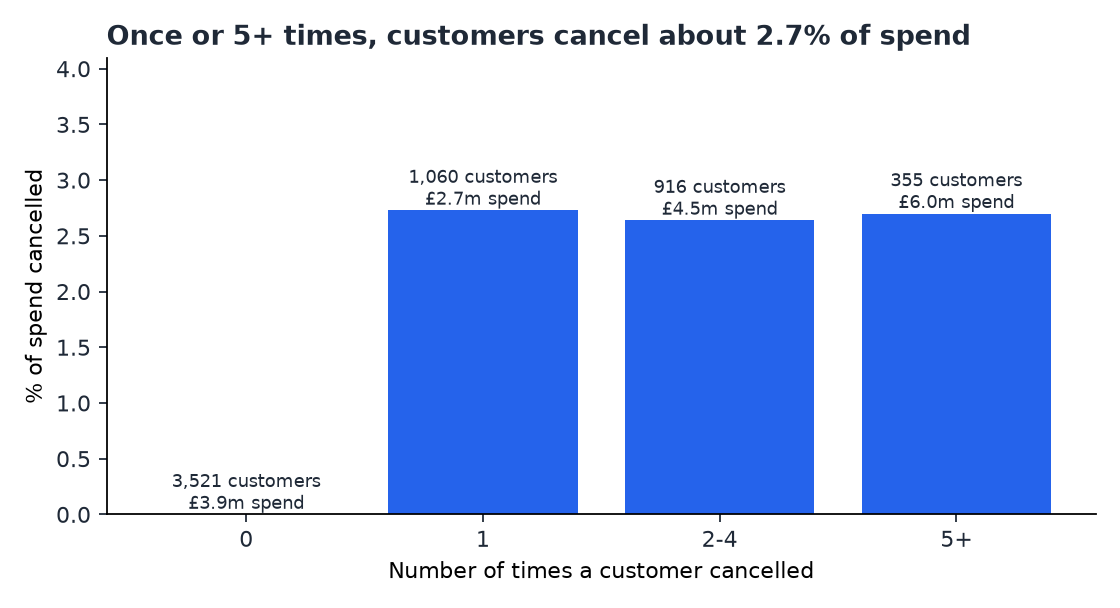
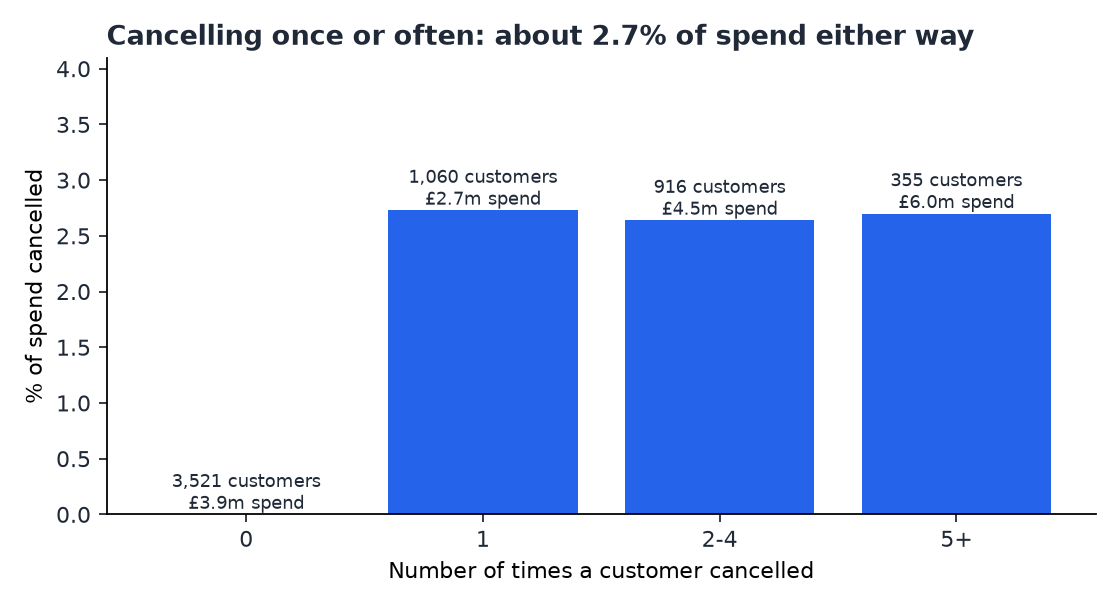
Plainer wording across README, landing page, charts and dashboard

Changed region(s): [[0.0938, 0.0312, 0.875, 0.0938]]

diff --git a/reports/dashboard.html b/reports/dashboard.html
@@ -7,9 +7,9 @@ h1{font-size:22px;margin:0 0 4px}p.sub{margin:0 0 16px;color:#6b7280}
 .note{font-size:12px;color:#6b7280}</style></head><body>
 <h1>Retail cancellation leakage</h1>
 <p class="sub">Real sales from one UK online gift retailer (UCI Online Retail II), Dec 2009 to Dec 2011. Products only; the README lists the cleaning rules.</p>
-<div class="cards"><div class="card"><b>£19.7m</b><span>Product sales, Dec 2009 to Dec 2011</span></div><div class="card"><b>3.65%</b><span>Overall cancellation rate (by value)</span></div><div class="card"><b>50%</b><span>Of the cancelled value is orders reversed within 24 hours</span></div><div class="card"><b>1.88%</b><span>Cancellation rate once reversals are left out</span></div></div>
+<div class="cards"><div class="card"><b>£19.7m</b><span>Product sales, Dec 2009 to Dec 2011</span></div><div class="card"><b>3.65%</b><span>Overall cancellation rate (by value)</span></div><div class="card"><b>50%</b><span>Of cancelled sales (by value) were orders reversed within 24 hours</span></div><div class="card"><b>1.88%</b><span>Cancellation rate once reversals are left out</span></div></div>
 <div style="height:820px; width:100%;">                        <script>window.PlotlyConfig = {MathJaxConfig: 'local'};</script>
-        <script charset="utf-8" src="https://cdn.plot.ly/plotly-4.1.1.min.js" integrity="sha256-O24V1F27f8pb0glCkelh3cVHLNiHAJ5gCaVtq2aNch8=" crossorigin="anonymous"></script>                <div id="7b3cbc96-f692-4897-905b-ffdba1a85541" class="plotly-graph-div" style="height:100%; width:100%;"></div>            <script>                window.PLOTLYENV=window.PLOTLYENV || {};                                if (document.getElementById("7b3cbc96-f692-4897-905b-ffdba1a85541")) {                    Plotly.newPlot(                        "7b3cbc96-f692-4897-905b-ffdba1a85541",                        [{"line":{"color":"#9ca3af","width":2},"name":"All cancellations","x":["2009-12","2010-01","2010-02","2010-03","2010-04","2010-05","2010-06","2010-07","2010-08","2010-09","2010-10","2010-11","2010-12","2011-01","2011-02","2011-03","2011-04","2011-05","2011-06","2011-07","2011-08","2011-09","2011-10","2011-11","2011-12"],"y":{"dtype":"f8","bdata":"hetRuB6FA0CF61G4HoXzP6RwPQrXowJAKVyPwvUo9D+kcD0K16P4Px+F61G4HhdAKVyPwvUoDkCamZmZmZkFQHE9CtejcP0\u002fhetRuB6FCUCkcD0K16MCQJqZmZmZmQNAFK5H4XoUAkA9CtejcD0rQGZmZmZmZvo\u002fpHA9Ctej+D\u002fNzMzMzMwZQFyPwvUoXPM\u002fw\u002fUoXI\u002fC\u002fT+PwvUoXI\u002f6P0jhehSuRwlAZmZmZmZm+j\u002fXo3A9CtcPQIXrUbgehfs\u002fCtejcD1KPEA="},"type":"scatter","xaxis":"x","yaxis":"y"},{"line":{"color":"#2563eb","width":3},"name":"Without reversals","x":["2009-12","2010-01","2010-02","2010-03","2010-04","2010-05","2010-06","2010-07","2010-08","2010-09","2010-10","2010-11","2010-12","2011-01","2011-02","2011-03","2011-04","2011-05","2011-06","2011-07","2011-08","2011-09","2011-10","2011-11","2011-12"],"y":{"dtype":"f8","bdata":"uB6F61G4AECPwvUoXI\u002fyP1yPwvUoXAFAmpmZmZmZ8T8AAAAAAAD0P+F6FK5H4QxAmpmZmZmZ\u002fT+kcD0K16P8P1yPwvUoXPc\u002fKVyPwvUoBEDD9Shcj8L5P7gehetRuABApHA9Ctej\u002fD89CtejcD0AQMP1KFyPwvk\u002fZmZmZmZm8j+PwvUoXI8YQOF6FK5H4fI\u002fSOF6FK5H+T8zMzMzMzP3P2ZmZmZmZgRAhetRuB6F8z9mZmZmZmYGQM3MzMzMzPA\u002fZmZmZmZm8j8="},"type":"scatter","xaxis":"x","yaxis":"y"},{"marker":{"color":["#dc2626","#2563eb","#9ca3af"]},"showlegend":false,"x":["Reversed within 24 hours","Other cancellations","No customer ID"],"y":[356000.0,357010.0,6647.0],"type":"bar","xaxis":"x2","yaxis":"y2"},{"customdata":{"dtype":"f8","bdata":"ZmZmZmZmIEAAAAAAAAAhQDMzMzMzMzxAZmZmZmZmIUAAAAAAAIAwQGZmZmZmZiRAMzMzMzNzQUBmZmZmZuY5QJqZmZmZmQVAmpmZmZmZEUA="},"hovertemplate":"%{y}\u003cbr\u003e\u00a3%{x:,.0f} (%{customdata}% of the product's sales)\u003cextra\u003e\u003c\u002fextra\u003e","marker":{"color":"#2563eb"},"orientation":"h","showlegend":false,"x":{"dtype":"f8","bdata":"AAAAAACKrEAAAAAAAFatQAAAAAAAZq5AAAAAAAAqr0AAAAAAALOwQAAAAAAAR7JAAAAAAACSuEAAAAAAALG5QAAAAAAAaLtAAAAAAAApzEA="},"y":["Coloured Glass Star T-Light Ho","Gin + Tonic Diet Metal Sign","Pink Cherry Lights","Baking Set 9 Piece Retrospot ","Tea Time Party Bunting","Doormat Fairy Cake","White Cherry Lights","Fairy Cake Flannel Assorted Co","White Hanging Heart T-Light Ho","Regency Cakestand 3 Tier"],"type":"bar","xaxis":"x3","yaxis":"y3"},{"error_y":{"array":{"dtype":"f8","bdata":"0MzMzMzM3D9SuB6F61EiQJqZmZmZWTVAcD0K16Nw5T8="},"arrayminus":{"dtype":"f8","bdata":"xPUoXI\u002fC1T+kcD0K16MRQArXo3A9CidAzszMzMzM5D8="},"symmetric":false,"type":"data"},"marker":{"color":"#2563eb"},"showlegend":false,"x":["United Kingdom","France","Spain","Germany"],"y":{"dtype":"f8","bdata":"AAAAAAAAAEBSuB6F61EVQHsUrkfh+idA7FG4HoXrAUA="},"type":"bar","xaxis":"x4","yaxis":"y4"},{"marker":{"color":"#dc2626","size":10},"mode":"markers","name":"Without its top cancelling customer","x":["United Kingdom","France","Spain","Germany"],"y":{"dtype":"f8","bdata":"cT0K16Nw\u002fT+uR+F6FK7zP6RwPQrXo+g\u002frkfhehSu\u002fz8="},"type":"scatter","xaxis":"x4","yaxis":"y4"}],                        {"template":{"data":{"barpolar":[{"marker":{"line":{"color":"white","width":0.5},"pattern":{"fillmode":"overlay","size":10,"solidity":0.2}},"type":"barpolar"}],"bar":[{"error_x":{"color":"rgb(36,36,36)"},"error_y":{"color":"rgb(36,36,36)"},"marker":{"line":{"color":"white","width":0.5},"pattern":{"fillmode":"overlay","size":10,"solidity":0.2}},"type":"bar"}],"carpet":[{"aaxis":{"endlinecolor":"rgb(36,36,36)","gridcolor":"white","linecolor":"white","minorgridcolor":"white","startlinecolor":"rgb(36,36,36)"},"baxis":{"endlinecolor":"rgb(36,36,36)","gridcolor":"white","linecolor":"white","minorgridcolor":"white","startlinecolor":"rgb(36,36,36)"},"type":"carpet"}],"choropleth":[{"colorbar":{"outlinewidth":1,"tickcolor":"rgb(36,36,36)","ticks":"outside"},"type":"choropleth"}],"contourcarpet":[{"colorbar":{"outlinewidth":1,"tickcolor":"rgb(36,36,36)","ticks":"outside"},"type":"contourcarpet"}],"contour":[{"colorbar":{"outlinewidth":1,"tickcolor":"rgb(36,36,36)","ticks":"outside"},"colorscale":[[0.0,"#440154"],[0.1111111111111111,"#482878"],[0.2222222222222222,"#3e4989"],[0.3333333333333333,"#31688e"],[0.4444444444444444,"#26828e"],[0.5555555555555556,"#1f9e89"],[0.6666666666666666,"#35b779"],[0.7777777777777778,"#6ece58"],[0.8888888888888888,"#b5de2b"],[1.0,"#fde725"]],"type":"contour"}],"heatmap":[{"colorbar":{"outlinewidth":1,"tickcolor":"rgb(36,36,36)","ticks":"outside"},"colorscale":[[0.0,"#440154"],[0.1111111111111111,"#482878"],[0.2222222222222222,"#3e4989"],[0.3333333333333333,"#31688e"],[0.4444444444444444,"#26828e"],[0.5555555555555556,"#1f9e89"],[0.6666666666666666,"#35b779"],[0.7777777777777778,"#6ece58"],[0.8888888888888888,"#b5de2b"],[1.0,"#fde725"]],"type":"heatmap"}],"histogram2dcontour":[{"colorbar":{"outlinewidth":1,"tickcolor":"rgb(36,36,36)","ticks":"outside"},"colorscale":[[0.0,"#440154"],[0.1111111111111111,"#482878"],[0.2222222222222222,"#3e4989"],[0.3333333333333333,"#31688e"],[0.4444444444444444,"#26828e"],[0.5555555555555556,"#1f9e89"],[0.6666666666666666,"#35b779"],[0.7777777777777778,"#6ece58"],[0.8888888888888888,"#b5de2b"],[1.0,"#fde725"]],"type":"histogram2dcontour"}],"histogram2d":[{"colorbar":{"outlinewidth":1,"tickcolor":"rgb(36,36,36)","ticks":"outside"},"colorscale":[[0.0,"#440154"],[0.1111111111111111,"#482878"],[0.2222222222222222,"#3e4989"],[0.3333333333333333,"#31688e"],[0.4444444444444444,"#26828e"],[0.5555555555555556,"#1f9e89"],[0.6666666666666666,"#35b779"],[0.7777777777777778,"#6ece58"],[0.8888888888888888,"#b5de2b"],[1.0,"#fde725"]],"type":"histogram2d"}],"histogram":[{"marker":{"line":{"color":"white","width":0.6}},"type":"histogram"}],"mesh3d":[{"colorbar":{"outlinewidth":1,"tickcolor":"rgb(36,36,36)","ticks":"outside"},"type":"mesh3d"}],"parcoords":[{"line":{"colorbar":{"outlinewidth":1,"tickcolor":"rgb(36,36,36)","ticks":"outside"}},"type":"parcoords"}],"pie":[{"automargin":true,"type":"pie"}],"scatter3d":[{"line":{"colorbar":{"outlinewidth":1,"tickcolor":"rgb(36,36,36)","ticks":"outside"}},"marker":{"colorbar":{"outlinewidth":1,"tickcolor":"rgb(36,36,36)","ticks":"outside"}},"type":"scatter3d"}],"scattercarpet":[{"marker":{"colorbar":{"outlinewidth":1,"tickcolor":"rgb(36,36,36)","ticks":"outside"}},"type":"scattercarpet"}],"scattergeo":[{"marker":{"colorbar":{"outlinewidth":1,"tickcolor":"rgb(36,36,36)","ticks":"outside"}},"type":"scattergeo"}],"scattergl":[{"marker":{"colorbar":{"outlinewidth":1,"tickcolor":"rgb(36,36,36)","ticks":"outside"}},"type":"scattergl"}],"scattermap":[{"marker":{"colorbar":{"outlinewidth":1,"tickcolor":"rgb(36,36,36)","ticks":"outside"}},"type":"scattermap"}],"scatterpolargl":[{"marker":{"colorbar":{"outlinewidth":1,"tickcolor":"rgb(36,36,36)","ticks":"outside"}},"type":"scatterpolargl"}],"scatterpolar":[{"marker":{"colorbar":{"outlinewidth":1,"tickcolor":"rgb(36,36,36)","ticks":"outside"}},"type":"scatterpolar"}],"scatter":[{"fillpattern":{"fillmode":"overlay","size":10,"solidity":0.2},"type":"scatter"}],"scatterternary":[{"marker":{"colorbar":{"outlinewidth":1,"tickcolor":"rgb(36,36,36)","ticks":"outside"}},"type":"scatterternary"}],"surface":[{"colorbar":{"outlinewidth":1,"tickcolor":"rgb(36,36,36)","ticks":"outside"},"colorscale":[[0.0,"#440154"],[0.1111111111111111,"#482878"],[0.2222222222222222,"#3e4989"],[0.3333333333333333,"#31688e"],[0.4444444444444444,"#26828e"],[0.5555555555555556,"#1f9e89"],[0.6666666666666666,"#35b779"],[0.7777777777777778,"#6ece58"],[0.8888888888888888,"#b5de2b"],[1.0,"#fde725"]],"type":"surface"}],"table":[{"cells":{"fill":{"color":"rgb(237,237,237)"},"line":{"color":"white"}},"header":{"fill":{"color":"rgb(217,217,217)"},"line":{"color":"white"}},"type":"table"}]},"layout":{"annotationdefaults":{"arrowhead":0,"arrowwidth":1},"autotypenumbers":"strict","coloraxis":{"colorbar":{"outlinewidth":1,"tickcolor":"rgb(36,36,36)","ticks":"outside"}},"colorscale":{"diverging":[[0.0,"rgb(103,0,31)"],[0.1,"rgb(178,24,43)"],[0.2,"rgb(214,96,77)"],[0.3,"rgb(244,165,130)"],[0.4,"rgb(253,219,199)"],[0.5,"rgb(247,247,247)"],[0.6,"rgb(209,229,240)"],[0.7,"rgb(146,197,222)"],[0.8,"rgb(67,147,195)"],[0.9,"rgb(33,102,172)"],[1.0,"rgb(5,48,97)"]],"sequential":[[0.0,"#440154"],[0.1111111111111111,"#482878"],[0.2222222222222222,"#3e4989"],[0.3333333333333333,"#31688e"],[0.4444444444444444,"#26828e"],[0.5555555555555556,"#1f9e89"],[0.6666666666666666,"#35b779"],[0.7777777777777778,"#6ece58"],[0.8888888888888888,"#b5de2b"],[1.0,"#fde725"]],"sequentialminus":[[0.0,"#440154"],[0.1111111111111111,"#482878"],[0.2222222222222222,"#3e4989"],[0.3333333333333333,"#31688e"],[0.4444444444444444,"#26828e"],[0.5555555555555556,"#1f9e89"],[0.6666666666666666,"#35b779"],[0.7777777777777778,"#6ece58"],[0.8888888888888888,"#b5de2b"],[1.0,"#fde725"]]},"colorway":["#1F77B4","#FF7F0E","#2CA02C","#D62728","#9467BD","#8C564B","#E377C2","#7F7F7F","#BCBD22","#17BECF"],"font":{"color":"rgb(36,36,36)"},"geo":{"bgcolor":"white","lakecolor":"white","landcolor":"white","showlakes":true,"showland":true,"subunitcolor":"white"},"hoverlabel":{"align":"left"},"hovermode":"closest","paper_bgcolor":"white","plot_bgcolor":"white","polar":{"angularaxis":{"gridcolor":"rgb(232,232,232)","linecolor":"rgb(36,36,36)","showgrid":false,"showline":true,"ticks":"outside"},"bgcolor":"white","radialaxis":{"gridcolor":"rgb(232,232,232)","linecolor":"rgb(36,36,36)","showgrid":false,"showline":true,"ticks":"outside"}},"scene":{"xaxis":{"backgroundcolor":"white","gridcolor":"rgb(232,232,232)","gridwidth":2,"linecolor":"rgb(36,36,36)","showbackground":true,"showgrid":false,"showline":true,"ticks":"outside","zeroline":false,"zerolinecolor":"rgb(36,36,36)"},"yaxis":{"backgroundcolor":"white","gridcolor":"rgb(232,232,232)","gridwidth":2,"linecolor":"rgb(36,36,36)","showbackground":true,"showgrid":false,"showline":true,"ticks":"outside","zeroline":false,"zerolinecolor":"rgb(36,36,36)"},"zaxis":{"backgroundcolor":"white","gridcolor":"rgb(232,232,232)","gridwidth":2,"linecolor":"rgb(36,36,36)","showbackground":true,"showgrid":false,"showline":true,"ticks":"outside","zeroline":false,"zerolinecolor":"rgb(36,36,36)"}},"shapedefaults":{"fillcolor":"black","line":{"width":0},"opacity":0.3},"ternary":{"aaxis":{"gridcolor":"rgb(232,232,232)","linecolor":"rgb(36,36,36)","showgrid":false,"showline":true,"ticks":"outside"},"baxis":{"gridcolor":"rgb(232,232,232)","linecolor":"rgb(36,36,36)","showgrid":false,"showline":true,"ticks":"outside"},"bgcolor":"white","caxis":{"gridcolor":"rgb(232,232,232)","linecolor":"rgb(36,36,36)","showgrid":false,"showline":true,"ticks":"outside"}},"title":{"x":0.05},"xaxis":{"automargin":true,"gridcolor":"rgb(232,232,232)","linecolor":"rgb(36,36,36)","showgrid":false,"showline":true,"ticks":"outside","title":{"standoff":15},"zeroline":false,"zerolinecolor":"rgb(36,36,36)"},"yaxis":{"automargin":true,"gridcolor":"rgb(232,232,232)","linecolor":"rgb(36,36,36)","showgrid":false,"showline":true,"ticks":"outside","title":{"standoff":15},"zeroline":false,"zerolinecolor":"rgb(36,36,36)"}}},"xaxis":{"anchor":"y","domain":[0.0,0.44]},"yaxis":{"anchor":"x","domain":[0.61,1.0],"title":{"text":"% of sales"}},"xaxis2":{"anchor":"y2","domain":[0.56,1.0]},"yaxis2":{"anchor":"x2","domain":[0.61,1.0]},"xaxis3":{"anchor":"y3","domain":[0.0,0.44]},"yaxis3":{"anchor":"x3","domain":[0.0,0.39]},"xaxis4":{"anchor":"y4","domain":[0.56,1.0]},"yaxis4":{"anchor":"x4","domain":[0.0,0.39],"title":{"text":"% of spend (customers with an ID)"}},"annotations":[{"font":{"size":16},"showarrow":false,"text":"Monthly cancellation rate, with and without reversals","x":0.22,"xanchor":"center","xref":"paper","y":1.0,"yanchor":"bottom","yref":"paper"},{"font":{"size":16},"showarrow":false,"text":"Where the cancelled value comes from (\u00a3)","x":0.78,"xanchor":"center","xref":"paper","y":1.0,"yanchor":"bottom","yref":"paper"},{"font":{"size":16},"showarrow":false,"text":"Top 10 products by cancelled value, excluding reversals (\u00a3)","x":0.22,"xanchor":"center","xref":"paper","y":0.39,"yanchor":"bottom","yref":"paper"},{"font":{"size":16},"showarrow":false,"text":"Rate by country, with 95% confidence ranges","x":0.78,"xanchor":"center","xref":"paper","y":0.39,"yanchor":"bottom","yref":"paper"}],"margin":{"t":70,"l":60,"r":30,"b":40},"legend":{"orientation":"h","y":-0.08},"font":{"family":"Segoe UI, Arial","size":12},"height":820},                        {"responsive": true}                    )                };            </script>        </div>
+        <script charset="utf-8" src="https://cdn.plot.ly/plotly-4.1.1.min.js" integrity="sha256-O24V1F27f8pb0glCkelh3cVHLNiHAJ5gCaVtq2aNch8=" crossorigin="anonymous"></script>                <div id="22b1dd9c-5b26-48c5-84ff-f27063e41c70" class="plotly-graph-div" style="height:100%; width:100%;"></div>            <script>                window.PLOTLYENV=window.PLOTLYENV || {};                                if (document.getElementById("22b1dd9c-5b26-48c5-84ff-f27063e41c70")) {                    Plotly.newPlot(                        "22b1dd9c-5b26-48c5-84ff-f27063e41c70",                        [{"line":{"color":"#9ca3af","width":2},"name":"All cancellations","x":["2009-12","2010-01","2010-02","2010-03","2010-04","2010-05","2010-06","2010-07","2010-08","2010-09","2010-10","2010-11","2010-12","2011-01","2011-02","2011-03","2011-04","2011-05","2011-06","2011-07","2011-08","2011-09","2011-10","2011-11","2011-12"],"y":{"dtype":"f8","bdata":"hetRuB6FA0CF61G4HoXzP6RwPQrXowJAKVyPwvUo9D+kcD0K16P4Px+F61G4HhdAKVyPwvUoDkCamZmZmZkFQHE9CtejcP0\u002fhetRuB6FCUCkcD0K16MCQJqZmZmZmQNAFK5H4XoUAkA9CtejcD0rQGZmZmZmZvo\u002fpHA9Ctej+D\u002fNzMzMzMwZQFyPwvUoXPM\u002fw\u002fUoXI\u002fC\u002fT+PwvUoXI\u002f6P0jhehSuRwlAZmZmZmZm+j\u002fXo3A9CtcPQIXrUbgehfs\u002fCtejcD1KPEA="},"type":"scatter","xaxis":"x","yaxis":"y"},{"line":{"color":"#2563eb","width":3},"name":"Without reversals","x":["2009-12","2010-01","2010-02","2010-03","2010-04","2010-05","2010-06","2010-07","2010-08","2010-09","2010-10","2010-11","2010-12","2011-01","2011-02","2011-03","2011-04","2011-05","2011-06","2011-07","2011-08","2011-09","2011-10","2011-11","2011-12"],"y":{"dtype":"f8","bdata":"uB6F61G4AECPwvUoXI\u002fyP1yPwvUoXAFAmpmZmZmZ8T8AAAAAAAD0P+F6FK5H4QxAmpmZmZmZ\u002fT+kcD0K16P8P1yPwvUoXPc\u002fKVyPwvUoBEDD9Shcj8L5P7gehetRuABApHA9Ctej\u002fD89CtejcD0AQMP1KFyPwvk\u002fZmZmZmZm8j+PwvUoXI8YQOF6FK5H4fI\u002fSOF6FK5H+T8zMzMzMzP3P2ZmZmZmZgRAhetRuB6F8z9mZmZmZmYGQM3MzMzMzPA\u002fZmZmZmZm8j8="},"type":"scatter","xaxis":"x","yaxis":"y"},{"marker":{"color":["#dc2626","#2563eb","#9ca3af"]},"showlegend":false,"x":["Reversed within 24 hours","Other cancellations","No customer ID"],"y":[356000.0,357010.0,6647.0],"type":"bar","xaxis":"x2","yaxis":"y2"},{"customdata":{"dtype":"f8","bdata":"ZmZmZmZmIEAAAAAAAAAhQDMzMzMzMzxAZmZmZmZmIUAAAAAAAIAwQGZmZmZmZiRAMzMzMzNzQUBmZmZmZuY5QJqZmZmZmQVAmpmZmZmZEUA="},"hovertemplate":"%{y}\u003cbr\u003e\u00a3%{x:,.0f} (%{customdata}% of the product's sales)\u003cextra\u003e\u003c\u002fextra\u003e","marker":{"color":"#2563eb"},"orientation":"h","showlegend":false,"x":{"dtype":"f8","bdata":"AAAAAACKrEAAAAAAAFatQAAAAAAAZq5AAAAAAAAqr0AAAAAAALOwQAAAAAAAR7JAAAAAAACSuEAAAAAAALG5QAAAAAAAaLtAAAAAAAApzEA="},"y":["Coloured Glass Star T-Light Ho","Gin + Tonic Diet Metal Sign","Pink Cherry Lights","Baking Set 9 Piece Retrospot ","Tea Time Party Bunting","Doormat Fairy Cake","White Cherry Lights","Fairy Cake Flannel Assorted Co","White Hanging Heart T-Light Ho","Regency Cakestand 3 Tier"],"type":"bar","xaxis":"x3","yaxis":"y3"},{"error_y":{"array":{"dtype":"f8","bdata":"0MzMzMzM3D9SuB6F61EiQJqZmZmZWTVAcD0K16Nw5T8="},"arrayminus":{"dtype":"f8","bdata":"xPUoXI\u002fC1T+kcD0K16MRQArXo3A9CidAzszMzMzM5D8="},"symmetric":false,"type":"data"},"marker":{"color":"#2563eb"},"showlegend":false,"x":["United Kingdom","France","Spain","Germany"],"y":{"dtype":"f8","bdata":"AAAAAAAAAEBSuB6F61EVQHsUrkfh+idA7FG4HoXrAUA="},"type":"bar","xaxis":"x4","yaxis":"y4"},{"marker":{"color":"#dc2626","size":10},"mode":"markers","name":"Without its top cancelling customer","x":["United Kingdom","France","Spain","Germany"],"y":{"dtype":"f8","bdata":"cT0K16Nw\u002fT+uR+F6FK7zP6RwPQrXo+g\u002frkfhehSu\u002fz8="},"type":"scatter","xaxis":"x4","yaxis":"y4"}],                        {"template":{"data":{"barpolar":[{"marker":{"line":{"color":"white","width":0.5},"pattern":{"fillmode":"overlay","size":10,"solidity":0.2}},"type":"barpolar"}],"bar":[{"error_x":{"color":"rgb(36,36,36)"},"error_y":{"color":"rgb(36,36,36)"},"marker":{"line":{"color":"white","width":0.5},"pattern":{"fillmode":"overlay","size":10,"solidity":0.2}},"type":"bar"}],"carpet":[{"aaxis":{"endlinecolor":"rgb(36,36,36)","gridcolor":"white","linecolor":"white","minorgridcolor":"white","startlinecolor":"rgb(36,36,36)"},"baxis":{"endlinecolor":"rgb(36,36,36)","gridcolor":"white","linecolor":"white","minorgridcolor":"white","startlinecolor":"rgb(36,36,36)"},"type":"carpet"}],"choropleth":[{"colorbar":{"outlinewidth":1,"tickcolor":"rgb(36,36,36)","ticks":"outside"},"type":"choropleth"}],"contourcarpet":[{"colorbar":{"outlinewidth":1,"tickcolor":"rgb(36,36,36)","ticks":"outside"},"type":"contourcarpet"}],"contour":[{"colorbar":{"outlinewidth":1,"tickcolor":"rgb(36,36,36)","ticks":"outside"},"colorscale":[[0.0,"#440154"],[0.1111111111111111,"#482878"],[0.2222222222222222,"#3e4989"],[0.3333333333333333,"#31688e"],[0.4444444444444444,"#26828e"],[0.5555555555555556,"#1f9e89"],[0.6666666666666666,"#35b779"],[0.7777777777777778,"#6ece58"],[0.8888888888888888,"#b5de2b"],[1.0,"#fde725"]],"type":"contour"}],"heatmap":[{"colorbar":{"outlinewidth":1,"tickcolor":"rgb(36,36,36)","ticks":"outside"},"colorscale":[[0.0,"#440154"],[0.1111111111111111,"#482878"],[0.2222222222222222,"#3e4989"],[0.3333333333333333,"#31688e"],[0.4444444444444444,"#26828e"],[0.5555555555555556,"#1f9e89"],[0.6666666666666666,"#35b779"],[0.7777777777777778,"#6ece58"],[0.8888888888888888,"#b5de2b"],[1.0,"#fde725"]],"type":"heatmap"}],"histogram2dcontour":[{"colorbar":{"outlinewidth":1,"tickcolor":"rgb(36,36,36)","ticks":"outside"},"colorscale":[[0.0,"#440154"],[0.1111111111111111,"#482878"],[0.2222222222222222,"#3e4989"],[0.3333333333333333,"#31688e"],[0.4444444444444444,"#26828e"],[0.5555555555555556,"#1f9e89"],[0.6666666666666666,"#35b779"],[0.7777777777777778,"#6ece58"],[0.8888888888888888,"#b5de2b"],[1.0,"#fde725"]],"type":"histogram2dcontour"}],"histogram2d":[{"colorbar":{"outlinewidth":1,"tickcolor":"rgb(36,36,36)","ticks":"outside"},"colorscale":[[0.0,"#440154"],[0.1111111111111111,"#482878"],[0.2222222222222222,"#3e4989"],[0.3333333333333333,"#31688e"],[0.4444444444444444,"#26828e"],[0.5555555555555556,"#1f9e89"],[0.6666666666666666,"#35b779"],[0.7777777777777778,"#6ece58"],[0.8888888888888888,"#b5de2b"],[1.0,"#fde725"]],"type":"histogram2d"}],"histogram":[{"marker":{"line":{"color":"white","width":0.6}},"type":"histogram"}],"mesh3d":[{"colorbar":{"outlinewidth":1,"tickcolor":"rgb(36,36,36)","ticks":"outside"},"type":"mesh3d"}],"parcoords":[{"line":{"colorbar":{"outlinewidth":1,"tickcolor":"rgb(36,36,36)","ticks":"outside"}},"type":"parcoords"}],"pie":[{"automargin":true,"type":"pie"}],"scatter3d":[{"line":{"colorbar":{"outlinewidth":1,"tickcolor":"rgb(36,36,36)","ticks":"outside"}},"marker":{"colorbar":{"outlinewidth":1,"tickcolor":"rgb(36,36,36)","ticks":"outside"}},"type":"scatter3d"}],"scattercarpet":[{"marker":{"colorbar":{"outlinewidth":1,"tickcolor":"rgb(36,36,36)","ticks":"outside"}},"type":"scattercarpet"}],"scattergeo":[{"marker":{"colorbar":{"outlinewidth":1,"tickcolor":"rgb(36,36,36)","ticks":"outside"}},"type":"scattergeo"}],"scattergl":[{"marker":{"colorbar":{"outlinewidth":1,"tickcolor":"rgb(36,36,36)","ticks":"outside"}},"type":"scattergl"}],"scattermap":[{"marker":{"colorbar":{"outlinewidth":1,"tickcolor":"rgb(36,36,36)","ticks":"outside"}},"type":"scattermap"}],"scatterpolargl":[{"marker":{"colorbar":{"outlinewidth":1,"tickcolor":"rgb(36,36,36)","ticks":"outside"}},"type":"scatterpolargl"}],"scatterpolar":[{"marker":{"colorbar":{"outlinewidth":1,"tickcolor":"rgb(36,36,36)","ticks":"outside"}},"type":"scatterpolar"}],"scatter":[{"fillpattern":{"fillmode":"overlay","size":10,"solidity":0.2},"type":"scatter"}],"scatterternary":[{"marker":{"colorbar":{"outlinewidth":1,"tickcolor":"rgb(36,36,36)","ticks":"outside"}},"type":"scatterternary"}],"surface":[{"colorbar":{"outlinewidth":1,"tickcolor":"rgb(36,36,36)","ticks":"outside"},"colorscale":[[0.0,"#440154"],[0.1111111111111111,"#482878"],[0.2222222222222222,"#3e4989"],[0.3333333333333333,"#31688e"],[0.4444444444444444,"#26828e"],[0.5555555555555556,"#1f9e89"],[0.6666666666666666,"#35b779"],[0.7777777777777778,"#6ece58"],[0.8888888888888888,"#b5de2b"],[1.0,"#fde725"]],"type":"surface"}],"table":[{"cells":{"fill":{"color":"rgb(237,237,237)"},"line":{"color":"white"}},"header":{"fill":{"color":"rgb(217,217,217)"},"line":{"color":"white"}},"type":"table"}]},"layout":{"annotationdefaults":{"arrowhead":0,"arrowwidth":1},"autotypenumbers":"strict","coloraxis":{"colorbar":{"outlinewidth":1,"tickcolor":"rgb(36,36,36)","ticks":"outside"}},"colorscale":{"diverging":[[0.0,"rgb(103,0,31)"],[0.1,"rgb(178,24,43)"],[0.2,"rgb(214,96,77)"],[0.3,"rgb(244,165,130)"],[0.4,"rgb(253,219,199)"],[0.5,"rgb(247,247,247)"],[0.6,"rgb(209,229,240)"],[0.7,"rgb(146,197,222)"],[0.8,"rgb(67,147,195)"],[0.9,"rgb(33,102,172)"],[1.0,"rgb(5,48,97)"]],"sequential":[[0.0,"#440154"],[0.1111111111111111,"#482878"],[0.2222222222222222,"#3e4989"],[0.3333333333333333,"#31688e"],[0.4444444444444444,"#26828e"],[0.5555555555555556,"#1f9e89"],[0.6666666666666666,"#35b779"],[0.7777777777777778,"#6ece58"],[0.8888888888888888,"#b5de2b"],[1.0,"#fde725"]],"sequentialminus":[[0.0,"#440154"],[0.1111111111111111,"#482878"],[0.2222222222222222,"#3e4989"],[0.3333333333333333,"#31688e"],[0.4444444444444444,"#26828e"],[0.5555555555555556,"#1f9e89"],[0.6666666666666666,"#35b779"],[0.7777777777777778,"#6ece58"],[0.8888888888888888,"#b5de2b"],[1.0,"#fde725"]]},"colorway":["#1F77B4","#FF7F0E","#2CA02C","#D62728","#9467BD","#8C564B","#E377C2","#7F7F7F","#BCBD22","#17BECF"],"font":{"color":"rgb(36,36,36)"},"geo":{"bgcolor":"white","lakecolor":"white","landcolor":"white","showlakes":true,"showland":true,"subunitcolor":"white"},"hoverlabel":{"align":"left"},"hovermode":"closest","paper_bgcolor":"white","plot_bgcolor":"white","polar":{"angularaxis":{"gridcolor":"rgb(232,232,232)","linecolor":"rgb(36,36,36)","showgrid":false,"showline":true,"ticks":"outside"},"bgcolor":"white","radialaxis":{"gridcolor":"rgb(232,232,232)","linecolor":"rgb(36,36,36)","showgrid":false,"showline":true,"ticks":"outside"}},"scene":{"xaxis":{"backgroundcolor":"white","gridcolor":"rgb(232,232,232)","gridwidth":2,"linecolor":"rgb(36,36,36)","showbackground":true,"showgrid":false,"showline":true,"ticks":"outside","zeroline":false,"zerolinecolor":"rgb(36,36,36)"},"yaxis":{"backgroundcolor":"white","gridcolor":"rgb(232,232,232)","gridwidth":2,"linecolor":"rgb(36,36,36)","showbackground":true,"showgrid":false,"showline":true,"ticks":"outside","zeroline":false,"zerolinecolor":"rgb(36,36,36)"},"zaxis":{"backgroundcolor":"white","gridcolor":"rgb(232,232,232)","gridwidth":2,"linecolor":"rgb(36,36,36)","showbackground":true,"showgrid":false,"showline":true,"ticks":"outside","zeroline":false,"zerolinecolor":"rgb(36,36,36)"}},"shapedefaults":{"fillcolor":"black","line":{"width":0},"opacity":0.3},"ternary":{"aaxis":{"gridcolor":"rgb(232,232,232)","linecolor":"rgb(36,36,36)","showgrid":false,"showline":true,"ticks":"outside"},"baxis":{"gridcolor":"rgb(232,232,232)","linecolor":"rgb(36,36,36)","showgrid":false,"showline":true,"ticks":"outside"},"bgcolor":"white","caxis":{"gridcolor":"rgb(232,232,232)","linecolor":"rgb(36,36,36)","showgrid":false,"showline":true,"ticks":"outside"}},"title":{"x":0.05},"xaxis":{"automargin":true,"gridcolor":"rgb(232,232,232)","linecolor":"rgb(36,36,36)","showgrid":false,"showline":true,"ticks":"outside","title":{"standoff":15},"zeroline":false,"zerolinecolor":"rgb(36,36,36)"},"yaxis":{"automargin":true,"gridcolor":"rgb(232,232,232)","linecolor":"rgb(36,36,36)","showgrid":false,"showline":true,"ticks":"outside","title":{"standoff":15},"zeroline":false,"zerolinecolor":"rgb(36,36,36)"}}},"xaxis":{"anchor":"y","domain":[0.0,0.44]},"yaxis":{"anchor":"x","domain":[0.61,1.0],"title":{"text":"% of sales"}},"xaxis2":{"anchor":"y2","domain":[0.56,1.0]},"yaxis2":{"anchor":"x2","domain":[0.61,1.0]},"xaxis3":{"anchor":"y3","domain":[0.0,0.44]},"yaxis3":{"anchor":"x3","domain":[0.0,0.39]},"xaxis4":{"anchor":"y4","domain":[0.56,1.0]},"yaxis4":{"anchor":"x4","domain":[0.0,0.39],"title":{"text":"% of spend (customers with an ID)"}},"annotations":[{"font":{"size":16},"showarrow":false,"text":"Monthly cancellation rate, with and without reversals","x":0.22,"xanchor":"center","xref":"paper","y":1.0,"yanchor":"bottom","yref":"paper"},{"font":{"size":16},"showarrow":false,"text":"Where cancelled sales come from (\u00a3)","x":0.78,"xanchor":"center","xref":"paper","y":1.0,"yanchor":"bottom","yref":"paper"},{"font":{"size":16},"showarrow":false,"text":"Top 10 products by cancelled sales, excluding reversals (\u00a3)","x":0.22,"xanchor":"center","xref":"paper","y":0.39,"yanchor":"bottom","yref":"paper"},{"font":{"size":16},"showarrow":false,"text":"Rate by country, with 95% confidence ranges","x":0.78,"xanchor":"center","xref":"paper","y":0.39,"yanchor":"bottom","yref":"paper"}],"margin":{"t":70,"l":60,"r":30,"b":40},"legend":{"orientation":"h","y":-0.08},"font":{"family":"Segoe UI, Arial","size":12},"height":820},                        {"responsive": true}                    )                };            </script>        </div>
 <p class="note">Rate without reversals = cancellations other than reversals ÷ (sales minus the reversed sales). A reversal is when the same customer cancels the same product and quantity within 24 hours of buying it.
 The data gives no reasons for cancelling, so cancellations include returns, order-entry corrections and cancelled orders.</p>
 </body></html>

diff --git a/scripts/site_template.html b/scripts/site_template.html
@@ -4,7 +4,7 @@
 <meta charset="utf-8">
 <meta name="viewport" content="width=device-width, initial-scale=1">
 <title>Retail Cancellation Leakage Analysis</title>
-<meta name="description" content="SQL and Python analysis of 1.07 million real retail sales rows: how much of the cancelled value is quick reversals, and what is left.">
+<meta name="description" content="SQL and Python analysis of 1.07 million lines of real sales data: how much of the cancelled sales are quick reversals, and what is left.">
 <style>
   :root { --bg:#f7f8fa; --surface:#fff; --ink:#18212f; --muted:#5b6575; --line:#dde2ea; --accent:#2457c5; --soft:#e8eefb; }
   @media (prefers-color-scheme: dark) { :root { --bg:#10151d; --surface:#171e2a; --ink:#e6eaf1; --muted:#9ca7b9; --line:#2b3446; --accent:#89a8ff; --soft:#1d2a49; color-scheme: dark; } }
@@ -37,21 +37,21 @@
 <div class="wrap">
 <header>
   <h1>Retail Cancellation Leakage Analysis</h1>
-  <p class="lede">How much sales value does an online retailer lose to cancellations, and how much of it can it do something about? An SQL and Python analysis of 1.07 million rows of real sales from a UK online gift retailer (UCI Online Retail II, Dec 2009 to Dec 2011).</p>
+  <p class="lede">How much does an online shop lose to cancellations, and how much of that could it act on? An SQL and Python analysis of 1.07 million lines of real sales data from a UK online gift retailer (UCI Online Retail II, Dec 2009 to Dec 2011).</p>
 </header>
 
 <section class="kpis" aria-label="Key numbers">
   <div class="kpi"><b>$headline</b><span>Overall cancellation rate: $cancelled of $gross in sales</span></div>
-  <div class="kpi"><b>$reversal_share</b><span>of the cancelled value is orders reversed within 24 hours</span></div>
+  <div class="kpi"><b>$reversal_share</b><span>of cancelled sales (by value) were orders reversed within 24 hours</span></div>
   <div class="kpi main"><b>$adjusted</b><span>Cancellation rate once those reversals are left out</span></div>
 </section>
 
 <h2>What the data shows</h2>
 <ul>
   <li>Two huge orders, each placed and cancelled within minutes, cause the two biggest monthly spikes. Leaving out reversals (same customer, product and quantity, cancelled within 24 hours) turns the $headline rate into $adjusted.</li>
-  <li>A few products account for most cancellations: of the $skus products with cancellations other than reversals, the top 5% hold $top5 of that cancelled value.</li>
-  <li>Spain's $spain_rate rate comes down to one customer ($spain_top_share of its cancelled value); without that customer it is $spain_without.</li>
-  <li>For customers with a recorded customer ID the rate is $ci_text, from a bootstrap that resamples whole customers.</li>
+  <li>A few products account for most cancellations: of the $skus products with cancellations other than reversals, the top 5% account for $top5 of those cancelled sales.</li>
+  <li>Spain's $spain_rate rate comes down to one customer ($spain_top_share of its cancelled sales); without that customer it is $spain_without.</li>
+  <li>For customers with an ID on record the rate is $ci_text.</li>
 </ul>
 
 <h2>Explore</h2>

diff --git a/src/analysis.py b/src/analysis.py
@@ -104,7 +104,7 @@ def main() -> dict:
     for m in ("2011-01", "2011-12"):
         r = monthly[monthly.invoice_month == m].iloc[0]
         ax.annotate(f"{r.headline_rate_pct:.1f}%", (m, r.headline_rate_pct), textcoords="offset points", xytext=(-6, 6), color=INK, fontsize=9, ha="right")
-    ax.set_ylabel("Cancelled value as % of sales")
+    ax.set_ylabel("Cancelled sales as % of all sales")
     ax.set_xticks(range(0, len(monthly), 3), monthly["invoice_month"][::3], rotation=0, fontsize=8)
     ax.legend(frameon=False, loc="upper left", fontsize=9)
     style(ax, "The two biggest spikes are two huge orders cancelled within minutes")
@@ -116,16 +116,16 @@ def main() -> dict:
     for name, v, col in parts:
         ax.barh([0], [v / 1000], left=left, color=col, label=f"{name}: £{v / 1000:,.0f}k")
         left += v / 1000
-    ax.set_yticks([]); ax.set_xlabel("Cancelled value (£ thousand)")
+    ax.set_yticks([]); ax.set_xlabel("Cancelled sales (£ thousand)")
     ax.legend(frameon=False, loc="upper center", bbox_to_anchor=(0.5, -0.35), ncol=1, fontsize=9)
-    style(ax, "About half the cancelled value is orders reversed within 24 hours")
+    style(ax, "About half of cancelled sales were orders reversed within 24 hours")
     fig.tight_layout(); fig.savefig(FIG / "02_cancelled_value_split.png", dpi=160); plt.close(fig)
 
     fig, ax = plt.subplots(figsize=(8, 4))
     labels = skus["description"].str.title().str.slice(0, 32) + " (" + skus["rate_pct"].round(0).astype(int).astype(str) + "%)"
     ax.barh(labels[::-1], skus["other_cancelled_gbp"][::-1] / 1000, color=ACCENT)
-    ax.set_xlabel("Cancelled value excluding reversals (£ thousand)\n% in brackets = share of that product's sales")
-    style(ax, "The 15 products with the most cancelled value")
+    ax.set_xlabel("Cancelled sales, not counting reversals (£ thousand)\n% in brackets = share of that product's sales")
+    style(ax, "The 15 products with the most cancelled sales")
     ax.tick_params(axis="y", labelsize=8)
     fig.tight_layout(); fig.savefig(FIG / "03_top_skus.png", dpi=160); plt.close(fig)
 
@@ -144,7 +144,7 @@ def main() -> dict:
         ax.text(i, r.rate_pct + 0.05, f"{int(r.customers):,} customers\n£{r.spend_gbp / 1e6:.1f}m spend", ha="center", fontsize=8, color=INK)
     ax.set_xlabel("Number of times a customer cancelled"); ax.set_ylabel("% of spend cancelled")
     ax.set_ylim(0, freq["rate_pct"].max() * 1.5)
-    style(ax, "Once or 5+ times, customers cancel about 2.7% of spend")
+    style(ax, "Cancelling once or often: about 2.7% of spend either way")
     fig.tight_layout(); fig.savefig(FIG / "05_cancel_frequency_bands.png", dpi=160); plt.close(fig)
 
     (ROOT / "outputs" / "findings.json").write_text(json.dumps(findings, indent=2))

diff --git a/src/build_outputs.py b/src/build_outputs.py
@@ -21,8 +21,8 @@ def dashboard() -> Path:
 
     fig = make_subplots(
         rows=2, cols=2, vertical_spacing=0.22, horizontal_spacing=0.12,
-        subplot_titles=("Monthly cancellation rate, with and without reversals", "Where the cancelled value comes from (£)",
-                        "Top 10 products by cancelled value, excluding reversals (£)", "Rate by country, with 95% confidence ranges"),
+        subplot_titles=("Monthly cancellation rate, with and without reversals", "Where cancelled sales come from (£)",
+                        "Top 10 products by cancelled sales, excluding reversals (£)", "Rate by country, with 95% confidence ranges"),
     )
     fig.add_trace(go.Scatter(x=monthly.invoice_month, y=monthly.headline_rate_pct, name="All cancellations", line=dict(color=GREY, width=2)), 1, 1)
     fig.add_trace(go.Scatter(x=monthly.invoice_month, y=monthly.adjusted_rate_pct, name="Without reversals", line=dict(color=BLUE, width=3)), 1, 1)
@@ -44,7 +44,7 @@ def dashboard() -> Path:
     cards = [
         (f"£{kpi.gross_sales_gbp / 1e6:.1f}m", "Product sales, Dec 2009 to Dec 2011"),
         (f"{kpi.headline_rate_pct:.2f}%", "Overall cancellation rate (by value)"),
-        (f"{kpi.reversal_share_of_cancelled_pct:.0f}%", "Of the cancelled value is orders reversed within 24 hours"),
+        (f"{kpi.reversal_share_of_cancelled_pct:.0f}%", "Of cancelled sales (by value) were orders reversed within 24 hours"),
         (f"{kpi.adjusted_rate_pct:.2f}%", "Cancellation rate once reversals are left out"),
     ]
     card_html = "".join(f'<div class="card"><b>{v}</b><span>{t}</span></div>' for v, t in cards)

diff --git a/scripts/build_site.py b/scripts/build_site.py
@@ -49,7 +49,7 @@ def build(repo: Path, site: Path) -> Path:
         "spain_rate": f"{spain['rate_pct']:.1f}%",
         "spain_top_share": f"{spain['top_customer_share_of_cancelled_pct']:.1f}%",
         "spain_without": f"{spain['rate_without_top_customer_pct']:.1f}%",
-        "ci_text": f"{ci['point']:.2f}%, with a 95% confidence range of {ci['ci95'][0]:.2f}% to {ci['ci95'][1]:.2f}%",
+        "ci_text": f"{ci['point']:.2f}%, and the true figure is likely between {ci['ci95'][0]:.2f}% and {ci['ci95'][1]:.2f}% (95% confidence range)",
         "repo_url": REPO_URL,
         "built": date.today().isoformat(),
         "commit": commit,

diff --git a/README.md b/README.md
@@ -2,10 +2,10 @@
 
 [![tests](https://github.com/Anubhavkumarkanth/retail-cancellation-leakage/actions/workflows/tests.yml/badge.svg)](https://github.com/Anubhavkumarkanth/retail-cancellation-leakage/actions/workflows/tests.yml)
 
-An SQL and Python analysis of two years of real sales from a UK online gift retailer (UCI *Online Retail II*, 1.07 million raw rows).
-**The question:** how much sales value is lost to cancellations, where does it come from, and how much of it can the business actually do something about?
+An SQL and Python analysis of two years of real sales from a UK online gift retailer (UCI *Online Retail II*: 1.07 million lines of raw sales data).
+**The question:** how much in sales is lost to cancellations, where do the cancellations come from, and how much of that can the business act on?
 
-**Short answer:** about half of the cancelled value is orders reversed within 24 hours (same customer, same product, same quantity). Counted separately, the cancellation rate falls from 3.65% to 1.88%.
+**Short answer:** about half of cancelled sales (by value) are orders the same customer reversed within 24 hours, for the same product and quantity. Leave those out and the cancellation rate falls from 3.65% to 1.88%.
 
 **Live dashboard:** [Open the published dashboard](https://anubhavkumarkanth.github.io/retail-cancellation-leakage/). · **Power BI:** _no report file yet; a build guide and a data export script are included._
 
@@ -17,13 +17,13 @@ Every figure is rebuilt from the raw data by `python run_all.py` and checked by 
 
 | # | Finding | Evidence |
 |---|---------|----------|
-| 1 | Cancellations come to **3.65%** of sales (£719,656 of £19.70m). But **49.5% of that cancelled value is same-day reversals**: the same customer cancelling the same product and quantity within 24 hours of buying it. Leave those out and the rate is **1.88%**. | `outputs/csv/kpi_overview.csv` |
-| 2 | Two single orders cause the two biggest monthly spikes: 80,995 units of one product (£168k, Dec 2011) and 74,215 units of another (£77k, Jan 2011). Each was placed and cancelled within 16 minutes, and together they are 34% of all cancelled value. Both were far out of line: the first product has no other sale at all, the second product's next-largest sale is 288 units, and 99.9% of all sale lines are 500 units or fewer. Without reversals, Dec 2011 drops from 28.3% to 1.15% and Jan 2011 from 13.6% to 2.0%. | `reports/figures/01_monthly_headline_vs_adjusted.png` |
-| 3 | The one real spike left is April 2011 (6.1% without reversals), and 72.7% of that month's remaining cancelled value comes from one customer (£23k). | `outputs/csv/high_rate_months.csv` |
-| 4 | A few products account for most cancellations. Of the 2,746 products with cancellations other than reversals, the top 5% hold 53.1% of that cancelled value and the top 20% hold 80.6%. The largest is Regency Cakestand 3 Tier at £14.4k (4.4% of its sales). Some small products have very high rates, for example White Cherry Lights at 34.9% and Small Fairy Cake Fridge Magnets at 53.0%, on only £7k to £18k of sales. | `outputs/csv/sku_top_cancelled.csv` |
-| 5 | Country differences are not reliable. Spain's 12.0% and France's 5.3% each come down to one customer (94.5% and 78.2% of that country's cancelled value). Without that customer they are 0.8% and 1.2%. Their 95% confidence ranges (0.5% to 33.3% and 0.9% to 14.5%) overlap the UK's 2.0% (1.7% to 2.5%). | `outputs/csv/country_bootstrap.csv` |
-| 6 | Frequent cancellers are not "bad customers". 60% of identified customers never cancel apart from reversals. Those who do cancel about 2.6% to 2.7% of what they spend, whether they cancelled once, 2 to 4 times, or 5 or more times. The 355 customers who cancelled 5 or more times spend £6.0m and account for 46% of the cancelled value (excluding reversals), close to their 45% share of spending among customers who cancel. | `outputs/csv/customer_cancel_frequency.csv` |
-| 7 | Across 5,852 identified customers the overall rate is 2.08%, with a 95% confidence range of 1.72% to 2.53% (a bootstrap that resamples whole customers 2,000 times). The top 1% of cancelling customers hold 35.9% of cancelled value, and the top 10% hold 69.7%. | `outputs/findings.json` |
+| 1 | Cancellations come to **3.65%** of sales (£719,656 of £19.70m). But **49.5% of it is same-day reversals**: the same customer cancelling the same product and quantity within 24 hours of buying it. Leave those out and the rate is **1.88%**. | `outputs/csv/kpi_overview.csv` |
+| 2 | Each of the two biggest monthly spikes is one huge order, placed and cancelled within 16 minutes: 80,995 units of one product (£168k, Dec 2011) and 74,215 units of another (£77k, Jan 2011). Together they are 34% of all cancelled sales. Neither looks like a normal order: the first product was never sold in any other order, the second product's next-largest sale was 288 units, and 99.9% of all sale lines are 500 units or fewer. With reversals left out, Dec 2011 drops from 28.3% to 1.15% and Jan 2011 from 13.6% to 2.0%. | `reports/figures/01_monthly_headline_vs_adjusted.png` |
+| 3 | The one real spike left is April 2011 (6.1% without reversals), and one customer accounts for 72.7% of that month's remaining cancelled sales (£23k). | `outputs/csv/high_rate_months.csv` |
+| 4 | A few products account for most cancellations. Of the 2,746 products with cancellations other than reversals, the top 5% account for 53.1% of those cancelled sales and the top 20% for 80.6%. The largest is Regency Cakestand 3 Tier at £14.4k (4.4% of its sales). Some small products have very high rates, for example White Cherry Lights at 34.9% and Small Fairy Cake Fridge Magnets at 53.0%, on only £7k to £18k of sales. | `outputs/csv/sku_top_cancelled.csv` |
+| 5 | Don't read much into country differences. Spain's 12.0% and France's 5.3% each come down to one customer (94.5% and 78.2% of that country's cancelled sales); without that customer they are 0.8% and 1.2%. Their likely ranges (95% confidence: 0.5% to 33.3%, and 0.9% to 14.5%) overlap the UK's 2.0% (1.7% to 2.5%). | `outputs/csv/country_bootstrap.csv` |
+| 6 | Frequent cancellers are not "bad customers". 60% of customers with an ID on record never cancel, apart from reversals. Those who do cancel about 2.6% to 2.7% of what they spend, whether they cancelled once, 2 to 4 times, or 5 or more times. The 355 customers who cancelled 5 or more times spend £6.0m and account for 46% of cancelled sales (not counting reversals), close to their 45% share of spending among customers who cancel. | `outputs/csv/customer_cancel_frequency.csv` |
+| 7 | Across the 5,852 customers with an ID, the overall rate is 2.08%, and the true figure is likely between 1.72% and 2.53% (a 95% confidence range from resampling whole customers 2,000 times). The top 1% of customers who cancel account for 35.9% of cancelled sales, and the top 10% for 69.7%. | `outputs/findings.json` |
 
 ## Recommendations
 
@@ -51,7 +51,7 @@ Each one links back to a finding above. None comes with a savings estimate, beca
    What remains are product lines from normal sales, plus cancellations (invoice numbers starting with `C`, with a negative quantity).
 4. **Classify cancellations** (`sql/02_classify_cancellations.sql`). A cancellation counts as a **same-day reversal** if the same customer bought the same product, in exactly the opposite quantity, at most 24 hours earlier. Everything else is "other". Cancellations with no customer ID cannot be matched.
 5. **Metrics** (`sql/03_metrics.sql`): the headline numbers, plus breakdowns by month, country and product, how concentrated cancellations are, and how often customers cancel. The concentration and ranking queries use CTEs and window functions.
-6. **Statistics** (`src/analysis.py`): 95% confidence ranges from a bootstrap. Whole customers are resampled rather than single lines, because one customer's lines are not independent of each other. Also leave-one-customer-out checks and concentration shares. The random seed is fixed, so every run gives the same numbers.
+6. **Statistics** (`src/analysis.py`): 95% confidence ranges from a bootstrap. Whole customers are resampled rather than single lines, because one customer's lines are not independent of each other. It also re-runs each country's rate without its biggest customer, and measures how much of the total the top products and customers make up. The random seed is fixed, so every run gives the same numbers.
 7. **Outputs:** an interactive HTML dashboard (`reports/dashboard.html`, Plotly), an Excel summary (`outputs/cancellation_summary.xlsx`), five charts (`reports/figures/`) and CSV query results (`outputs/csv/`).
 
 **Definitions.** *Headline rate* = all cancelled value ÷ gross sales. *Adjusted rate* = cancelled value excluding reversals ÷ (gross sales minus the reversed sales). Reversed sales are approximated by the reversal's cancelled value (same quantity, customer and product; the price can differ slightly).
@@ -94,7 +94,7 @@ flowchart LR
 ## Limitations
 
 - **No cancellation reasons, and no link back to the original invoice.** "Cancellation" mixes customer returns, order-entry corrections and cancelled orders. The reversal rule is a rule of thumb: it can miss a reversal made after 24 hours or for a different quantity, and it could label a genuine same-day return as a reversal.
-- **22% of sale lines (13% of sales value) have no customer ID** (guest or unrecorded checkouts), and only 332 cancellation lines are in that group. Customer-level figures (findings 5 to 7) cover identified customers only; their rate (2.08%) differs slightly from the all-sales adjusted rate (1.88%).
+- **22% of sale lines (13% of sales value) have no customer ID** (guest or unrecorded checkouts), and only 332 cancellation lines are in that group. Customer-level figures (findings 5 to 7) cover identified customers only; their rate (2.08%) differs slightly from the 1.88% for all sales without reversals.
 - One retailer, December 2009 to December 2011, in pounds not adjusted for inflation. The findings describe this business in that period, not retail in general.
 - Cancelled value is the price on the invoice, not profit; nothing here estimates lost profit or savings.
 - A customer's country is the country on their order lines; a few customers appear under more than one country.
